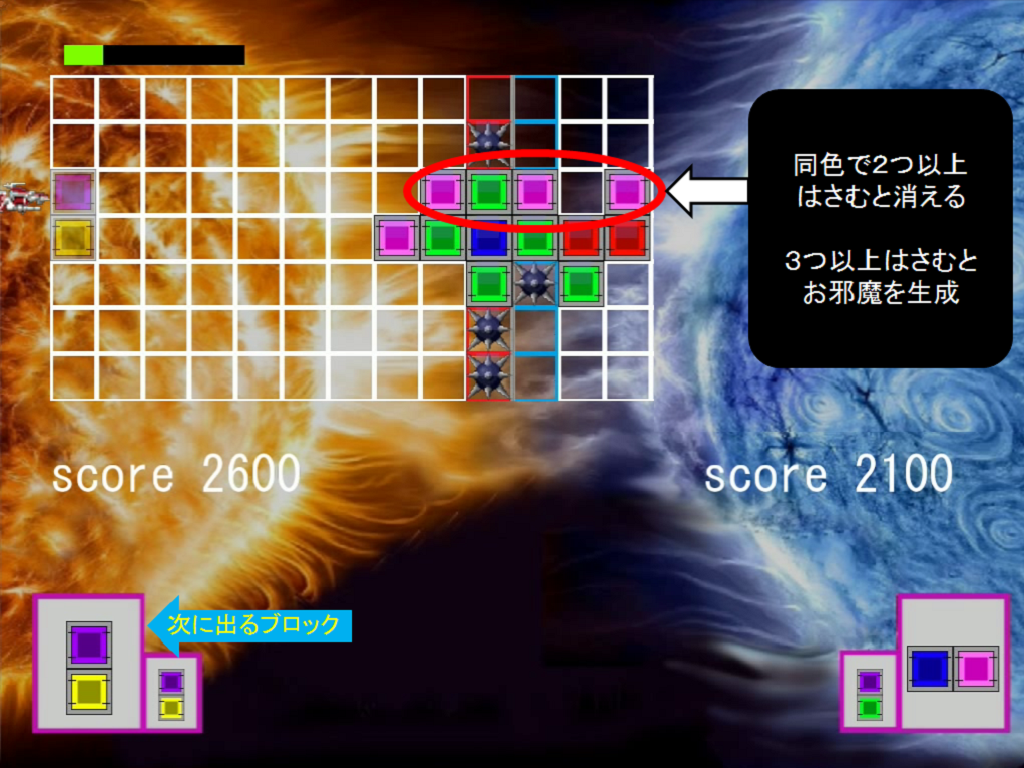
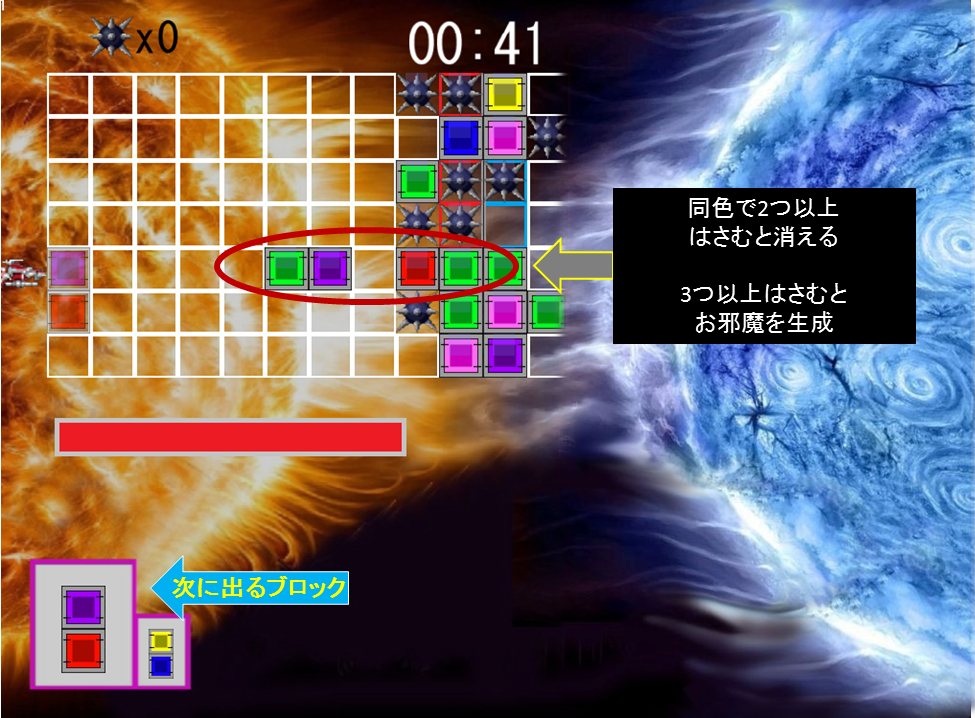
説明の追加･変更をやったお^^ｂ

diff --git a/team/team/GameHead.h b/team/team/GameHead.h
@@ -20,6 +20,7 @@ enum OBJ_NAME
 	OBJ_EX_BLOCK,
 	OBJ_MODE_CHOICE,
 	OBJ_CP,
+	OBJ_EXPLANATION4,
 };
 //------------------------------------------------
 
@@ -87,6 +88,7 @@ struct UserData
 #include "Function.h"
 #include "ObjModeChoice.h"
 #include "ObjCP.h"
+#include"ObjExplanation4.h"
 
 //------------------------------------------------
 
